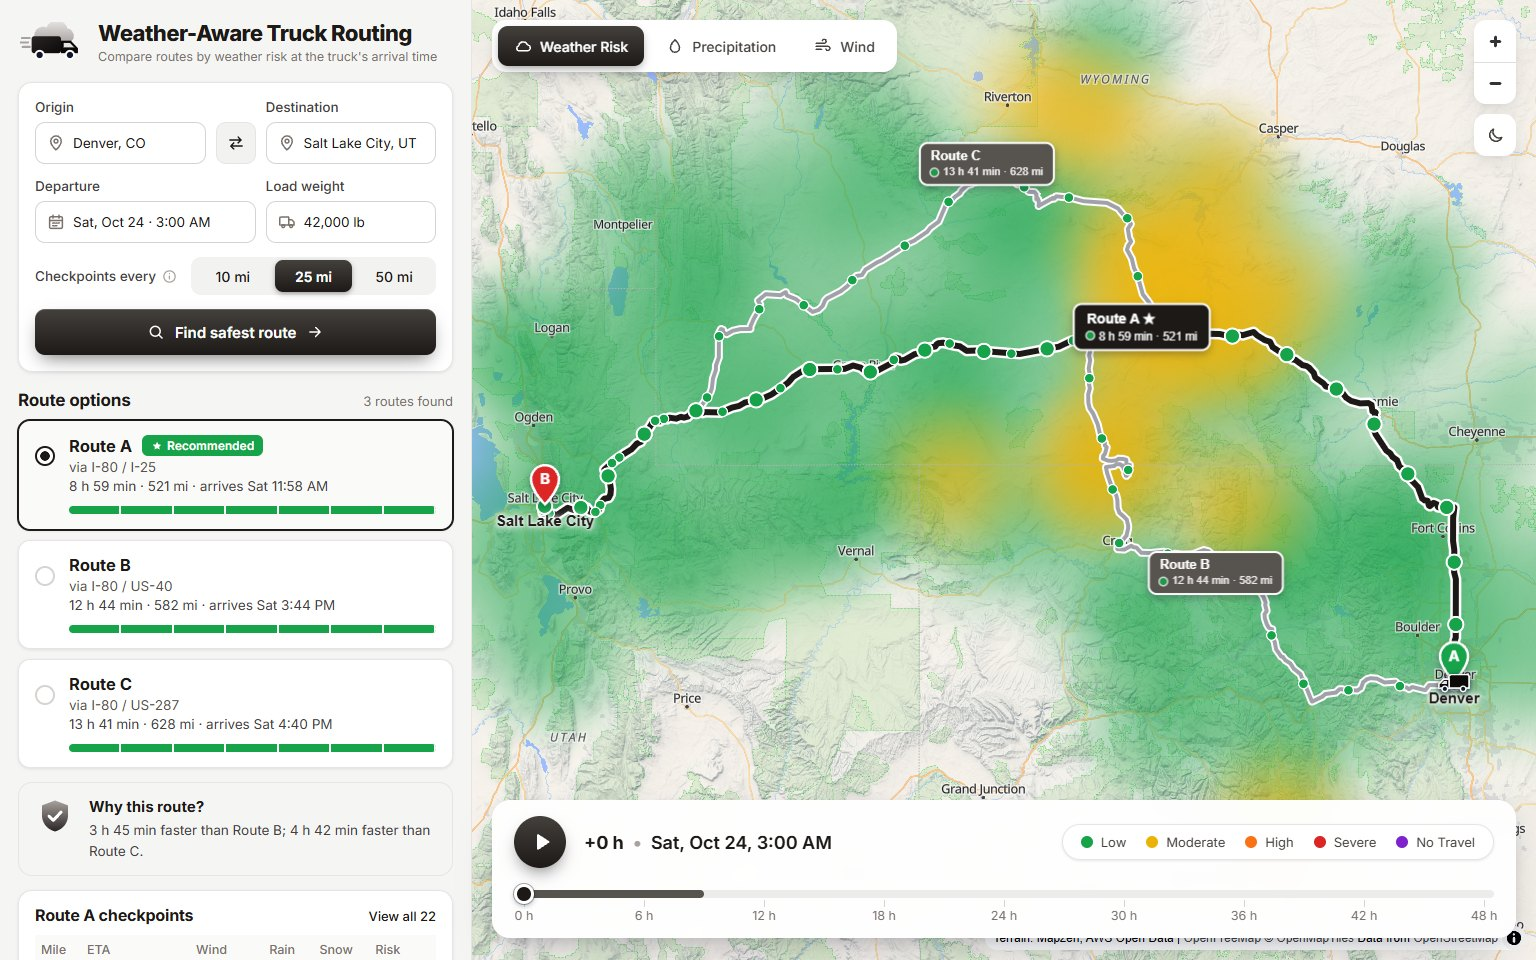
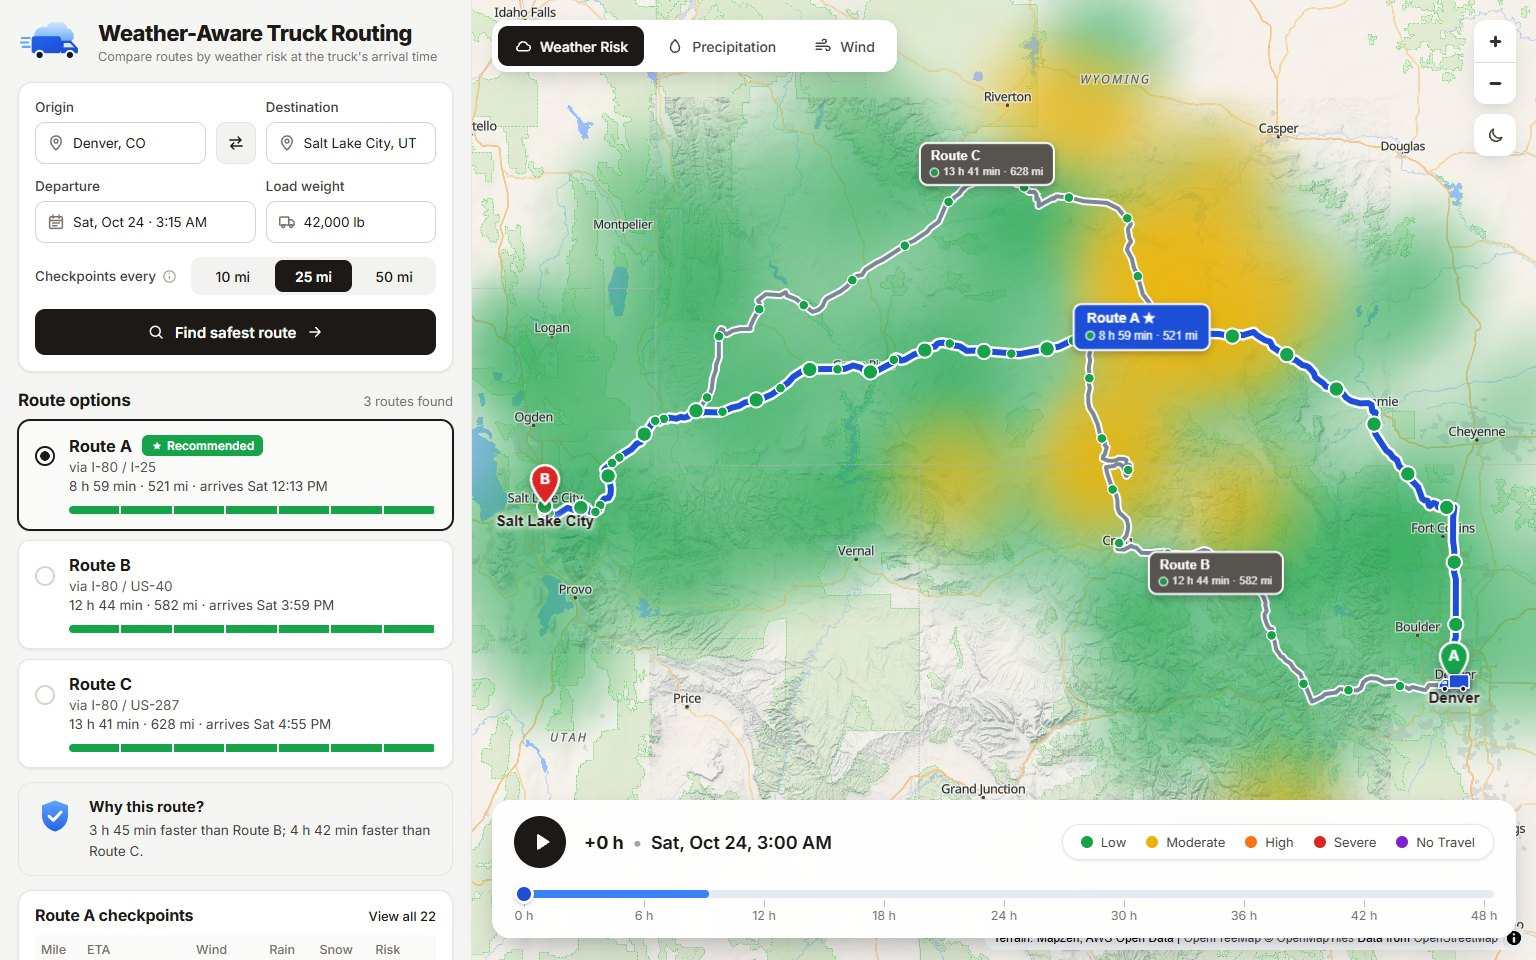
Graphite only for the sidebar and buttons; flat buttons
- Buttons are flat: no gradient sheen, no coloured glow.
- The map keeps its blue: route line, trucks, selected route tag, timeline,
  popup route names; the logo, shield and favicon are blue again.

diff --git a/frontend/src/index.css b/frontend/src/index.css
@@ -13,15 +13,17 @@
   --accent-strong: #0c0a09;
   --accent-soft: #f2f2f0;
   --accent-tint: #e7e5e4;
-  --accent-gradient: linear-gradient(180deg, #44403c 0%, #1c1917 100%);
+  --accent-gradient: #1c1917; /* flat: no sheen */
   --accent-rgb: 28 25 23; /* for glows: rgb(var(--accent-rgb) / alpha) */
   /* Brand (logo, shield) and map route colours. */
-  --brand: #292524;
-  --brand-deep: #0c0a09;
-  --brand-light: #a8a29e;
-  --brand-pale: #e7e5e4;
-  --route-selected: #1c1917;
-  --route-other: #a1a1aa;
+  --brand: #2563eb;
+  --brand-deep: #1d4ed8;
+  --brand-light: #60a5fa;
+  --brand-pale: #dbeafe;
+  /* The map keeps its blue: route line, trucks, selected route tag, timeline. */
+  --map-accent: #1d4ed8;
+  --route-selected: #1d4ed8;
+  --route-other: #7b8794;
   --route-casing: #ffffff;
   --shadow-sm: 0 1px 2px rgba(15, 23, 42, 0.05), 0 1px 3px rgba(15, 23, 42, 0.05);
   --shadow-md: 0 2px 4px rgba(15, 23, 42, 0.04), 0 10px 26px -8px rgba(15, 23, 42, 0.2);
@@ -42,10 +44,10 @@
   --why-border: #e7e5e4;
   --why-title: #1c1917;
   --glass: rgba(255, 255, 255, 0.97);
-  --track: #ececea;
-  --track-progress: #d6d3d1;
-  --trip-window: #57534e;
-  --tick: #d6d3d1;
+  --track: #e4ebf5;
+  --track-progress: #c4d9fb;
+  --trip-window: #3b82f6;
+  --tick: #b8c4d4;
   --tag-bg: #57534e;
   --tag-border: #ffffff;
   --truck: #57534e;
@@ -173,7 +175,7 @@ h1, h2, h3, p { margin: 0; }
   transition: background 0.15s;
 }
 .segmented button:hover { background: var(--accent-tint); }
-.segmented button.on { background: var(--accent-gradient); color: var(--on-accent); font-weight: 600; box-shadow: 0 2px 6px -1px rgb(var(--accent-rgb) / 0.5); }
+.segmented button.on { background: var(--accent-gradient); color: var(--on-accent); font-weight: 600; }
 
 button.primary {
   height: 46px;
@@ -187,7 +189,6 @@ button.primary {
   align-items: center;
   justify-content: center;
   gap: 10px;
-  box-shadow: 0 8px 18px -6px rgb(var(--accent-rgb) / 0.6), inset 0 1px 0 rgba(255, 255, 255, 0.18);
   transition: filter 0.15s, transform 0.05s;
 }
 button.primary:hover { filter: brightness(1.06); }
@@ -361,7 +362,7 @@ button.link:hover { text-decoration: underline; }
   transition: background 0.15s;
 }
 .layer-switch button:hover { background: var(--surface-hover); }
-.layer-switch button.on { background: var(--accent-gradient); color: var(--on-accent); box-shadow: 0 4px 10px -3px rgb(var(--accent-rgb) / 0.55); }
+.layer-switch button.on { background: var(--accent-gradient); color: var(--on-accent); }
 
 .maplibregl-ctrl-top-right .maplibregl-ctrl { margin: 20px 20px 0 0; }
 .maplibregl-ctrl-group:not(:empty) { border-radius: 12px; box-shadow: var(--shadow-md); overflow: hidden; }
@@ -396,7 +397,7 @@ button.link:hover { text-decoration: underline; }
 .truck-marker {
   color: var(--truck); line-height: 0; filter: drop-shadow(0 2px 3px rgba(15, 23, 42, 0.35)); cursor: default;
 }
-.truck-marker.selected { color: var(--accent-strong); z-index: 3; }
+.truck-marker.selected { color: var(--map-accent); z-index: 3; }
 .truck-marker.west svg { transform: scaleX(-1); }
 .route-tag {
   display: flex; flex-direction: column; align-items: flex-start; gap: 1px; padding: 4px 10px 5px;
@@ -406,7 +407,7 @@ button.link:hover { text-decoration: underline; }
 }
 .route-tag-meta { display: inline-flex; align-items: center; gap: 5px; font-size: 11px; font-weight: 500; opacity: 0.88; }
 .route-tag-meta i { width: 7px; height: 7px; border-radius: 50%; box-shadow: 0 0 0 1.5px rgba(255, 255, 255, 0.85); }
-.route-tag.selected { background: var(--accent); color: var(--on-accent); padding: 5px 12px 6px; font-size: 14px; z-index: 2; }
+.route-tag.selected { background: var(--map-accent); color: #fff; padding: 5px 12px 6px; font-size: 14px; z-index: 2; }
 .route-tag.selected .route-tag-meta { font-size: 11.5px; opacity: 0.95; }
 
 /* Checkpoint popup */
@@ -424,7 +425,7 @@ button.link:hover { text-decoration: underline; }
 .cp-popup.maplibregl-popup-anchor-right .maplibregl-popup-tip { border-left-color: var(--surface); }
 .cp-popup .maplibregl-popup-close-button { top: 6px; right: 8px; font-size: 20px; color: var(--faint); }
 .cp-popup .maplibregl-popup-close-button:hover { background: none; color: var(--text); }
-.cp-route { margin: 0 24px 2px 0; font-size: 11.5px; font-weight: 600; color: var(--accent); text-transform: uppercase; letter-spacing: 0.04em; }
+.cp-route { margin: 0 24px 2px 0; font-size: 11.5px; font-weight: 600; color: var(--map-accent); text-transform: uppercase; letter-spacing: 0.04em; }
 .cp-head { margin: 0 24px 10px 0; font-size: 13.5px; font-weight: 600; color: var(--text); }
 .cp-row { display: grid; grid-template-columns: 18px 54px auto; align-items: center; gap: 8px; padding: 3px 0; font-size: 13px; }
 .cp-row svg, .cp-label { color: var(--text-3); }
@@ -456,7 +457,6 @@ button.link:hover { text-decoration: underline; }
   border-radius: 50%;
   background: var(--accent-gradient);
   color: var(--on-accent);
-  box-shadow: 0 8px 18px -6px rgb(var(--accent-rgb) / 0.65);
 }
 .forecast-label { display: flex; align-items: baseline; gap: 9px; font-size: 18px; font-weight: 600; white-space: nowrap; }
 .forecast-label strong { font-weight: 700; }
@@ -485,11 +485,11 @@ button.link:hover { text-decoration: underline; }
 .track input[type="range"]::-moz-range-track { height: 24px; background: transparent; }
 .track input[type="range"]::-webkit-slider-thumb {
   -webkit-appearance: none; width: 20px; height: 20px; margin-top: 2px; border-radius: 50%;
-  background: var(--accent); border: 3px solid var(--surface); box-shadow: 0 0 0 1px rgb(var(--accent-rgb) / 0.35), 0 2px 6px rgba(15, 23, 42, 0.35);
+  background: var(--map-accent); border: 3px solid var(--surface); box-shadow: 0 1px 3px rgba(15, 23, 42, 0.35);
 }
 .track input[type="range"]::-moz-range-thumb {
   width: 14px; height: 14px; border-radius: 50%;
-  background: var(--accent); border: 3px solid var(--surface); box-shadow: 0 0 0 1px rgb(var(--accent-rgb) / 0.35), 0 2px 6px rgba(15, 23, 42, 0.35);
+  background: var(--map-accent); border: 3px solid var(--surface); box-shadow: 0 1px 3px rgba(15, 23, 42, 0.35);
 }
 .track input[type="range"]:focus-visible { outline: 2px solid rgb(var(--accent-rgb) / 0.35); outline-offset: 3px; border-radius: 6px; }
 .tick-labels { position: relative; height: 20px; margin-top: 2px; font-size: 12.5px; color: var(--muted); }
@@ -498,11 +498,6 @@ button.link:hover { text-decoration: underline; }
 /* ---------- Dark theme ---------- */
 :root[data-theme="dark"] {
   --on-accent: #1c1917;
-  --shield-check: #1c1917;
-  --brand: #a8a29e;
-  --brand-deep: #78716c;
-  --brand-light: #d6d3d1;
-  --brand-pale: #e7e5e4;
   --bg: #111110;
   --panel: #1a1a19;
   --surface: #1a1a19;
@@ -522,10 +517,11 @@ button.link:hover { text-decoration: underline; }
   --accent-strong: #fafaf9;
   --accent-soft: #262524;
   --accent-tint: #302e2c;
-  --accent-gradient: linear-gradient(180deg, #fafaf9 0%, #d6d3d1 100%);
+  --accent-gradient: #e7e5e4; /* flat: no sheen */
   --accent-rgb: 231 229 228;
-  --route-selected: #f5f5f4;
-  --route-other: #8a8580;
+  --map-accent: #3b82f6;
+  --route-selected: #3b82f6;
+  --route-other: #8191a8;
   --route-casing: #111110;
   --swap-border: #2f2d2b;
   --radio-border: #4a4744;
@@ -537,8 +533,8 @@ button.link:hover { text-decoration: underline; }
   --why-title: #f5f5f4;
   --glass: rgba(26, 26, 25, 0.95);
   --track: #2a2928;
-  --track-progress: #4a4744;
-  --trip-window: #d6d3d1;
+  --track-progress: #23447c;
+  --trip-window: #3b82f6;
   --tick: #4a4744;
   --tag-bg: #44403c;
   --tag-border: #d6d3d1;
@@ -555,7 +551,7 @@ button.link:hover { text-decoration: underline; }
   --risk-tint-3: rgba(239, 68, 68, 0.2); --risk-tint-4: rgba(168, 85, 247, 0.22);
   color-scheme: dark;
 }
-:root[data-theme="dark"] .truck-marker.selected { color: #fafaf9; }
+:root[data-theme="dark"] .truck-marker.selected { color: #60a5fa; }
 
 /* MapLibre's own controls: dark surfaces, light icons. */
 :root[data-theme="dark"] .maplibregl-ctrl-group { background: var(--surface); }

diff --git a/frontend/src/components/MapView.tsx b/frontend/src/components/MapView.tsx
@@ -70,8 +70,8 @@ function routeColors() {
   const read = (name: string, fallback: string) => css.getPropertyValue(name).trim() || fallback;
   return {
     casing: read("--route-casing", "#ffffff"),
-    selected: read("--route-selected", "#1c1917"),
-    other: read("--route-other", "#a1a1aa"),
+    selected: read("--route-selected", "#1d4ed8"),
+    other: read("--route-other", "#7b8794"),
     checkpointStroke: read("--route-casing", "#ffffff"),
   };
 }
